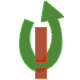
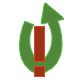
Emergency Roll!

diff --git a/source/public/client/movement.js b/source/public/client/movement.js
@@ -229,7 +229,7 @@ shipManager.movement = {
         return true;
     },
 
-/*
+
     canEmergencyRoll: function canEmergencyRoll(ship) {
         if (gamedata.gamephase != 2) return false;
         if (ship.flight || ship.osat) return false;
@@ -248,14 +248,12 @@ shipManager.movement = {
         }
         return true;
     },
-*/
+
 
     doRoll: function doRoll(ship) {
         if (!shipManager.movement.canRoll(ship)) return false;        
         var lm = ship.movement[ship.movement.length - 1];
         var requiredThrust = Array(ship.rollcost, 0, 0, 0, 0);
- //       var value = 0;
-//       if (shipManager.movement.isPivoting(ship) != "no" && (!ship.gravitic)) value = 'emergencyRoll';//Mark when an emergency roll has been made.
         
         ship.movement[ship.movement.length] = {
             id: -1,
@@ -276,13 +274,13 @@ shipManager.movement = {
             at_initiative: shipManager.getIniativeOrder(ship),
             turn: gamedata.turn,
             forced: false,
-            value: value
+            value: 0
         };
         shipWindowManager.assignThrust(ship);
         ship.rolling = true;
     },
 
-/*
+
     doEmergencyRoll: function doEmergencyRoll(ship) {
         if (!shipManager.movement.canEmergencyRoll(ship)) return false;        
         var lm = ship.movement[ship.movement.length - 1];
@@ -311,7 +309,7 @@ shipManager.movement = {
         shipWindowManager.assignThrust(ship);
         ship.rolling = true;
     },
-*/    
+   
 
     isRolling: function isRolling(ship) {
         var rolling = false;
@@ -908,15 +906,7 @@ shipManager.movement = {
 				contraction += move.value;//Will +1 depending on Contraction.
 	        }
 	    }
-/*		
-		for (var i in ship.systems) {
-			var system = ship.systems[i];
-			if (system.hasOwnProperty('contraction')) {
-			    contraction = system.contraction;
-			    break;
-			}					
-		}	
- */      	
+	    
        	return contraction;
     },
 
@@ -971,7 +961,6 @@ shipManager.movement = {
 		        value: value
 		    };
 						
-
 		    shipWindowManager.assignThrust(ship);		    	        
 		}
 	
@@ -990,41 +979,6 @@ shipManager.movement = {
 			}	
 	},
 
-/*//No longer needed
-	cancelPivotAfterTurn: function cancelPivotAfterTurn(ship){
-        var name;
-        var movement = ship.movement[ship.movement.length - 1];        
-		var isPivoting = shipManager.movement.isPivoting(ship);
-		//Create a pivot order that is the reverse of current pivot to cancel it.
-		if (isPivoting == 'left'){
-			name = "pivotright";
-		}else if (isPivoting == 'right'){
-			name = "pivotleft";
-		} 
-		//Add movement order!		
-		ship.movement[ship.movement.length] = {
-		    id: -1,
-		    type: name,
-		    position: movement.position, 
-		    xOffset: movement.xOffset,
-		    yOffset: movement.yOffset,
-		    facing: movement.facing,
-		    heading: movement.heading,
-		    speed: movement.speed,
-		    animating: false,
-		    animated: false,
-		    animationtics: 0,
-		    requiredThrust: Array(0, 0, 0, 0, 0),
-		    assignedThrust: Array(),
-		    commit: true,
-		    preturn: false,
-		    at_initiative: shipManager.getIniativeOrder(ship),
-		    turn: gamedata.turn,
-		    forced: false,
-		    value: "freecancelpivot"
-		};
-	},
-*/
 	
     canTurnIntoPivot: function canTurnIntoPivot(ship, right) {
         if (gamedata.gamephase != 2) return false;
@@ -1032,7 +986,8 @@ shipManager.movement = {
 
         /*cannot turn into pivot if unit is aligned...*/
         if(!shipManager.movement.isOutOfAlignment(ship)) return false;
-        
+        if (shipManager.movement.isRolling(ship) && !ship.gravitic) return false; //Cannot turn at all if rolling, unless gravitic
+	        
 		var turndelay = shipManager.movement.calculateCurrentTurndelay(ship);
         if (turndelay > 0) return false; //cannot turn into pivot if turn delay is not satisfied!
 		

diff --git a/source/public/client/UI/shipMovement.js b/source/public/client/UI/shipMovement.js
@@ -19,7 +19,7 @@ window.UI = {
 		contractionElement: null,
 		morecontractionElement: null,
 		lesscontractionElement: null,				
-
+		emergencyrollElement: null,
 
 
         initMoveUI: function initMoveUI() {
@@ -47,6 +47,8 @@ window.UI = {
             UI.shipMovement.rotaterightElement = $("#rotateright", ui);
 
             UI.shipMovement.rollElement = $("#roll", ui);
+            UI.shipMovement.emergencyrollElement = $("#emergencyroll", ui);            
+            
             UI.shipMovement.jinkElement = $("#jink", ui);
             UI.shipMovement.jinkvalueElement = UI.shipMovement.jinkElement.find(".jinkvalue");
 			
@@ -79,7 +81,8 @@ window.UI = {
             UI.shipMovement.rotaterightElement.on("click touchstart", UI.shipMovement.rotaterightCallback);
 
             UI.shipMovement.rollElement.on("click touchstart", UI.shipMovement.rollCallback);
-
+            UI.shipMovement.emergencyrollElement.on("click touchstart", UI.shipMovement.emergencyrollCallback);
+            
             UI.shipMovement.accElement.on("click touchstart", UI.shipMovement.accelCallback);
             UI.shipMovement.deaccElement.on("click touchstart", UI.shipMovement.deaccCallback);
 
@@ -157,6 +160,10 @@ window.UI = {
 
         rollCallback: function rollCallback(e) {
             UI.shipMovement.callbackHandler.rollCallback(e);
+        },
+
+        emergencyrollCallback: function emergencyrollCallback(e) {
+            UI.shipMovement.callbackHandler.emergencyrollCallback(e);
         },
 
         pivotrightCallback: function pivotrightCallback(e) {
@@ -372,15 +379,31 @@ window.UI = {
 
             dis = 30;
             angle = mathlib.addToDirection(shipHeading, 180);
+			var checkHeading = shipManager.getShipDoMAngle(ship);
+			            
             var roll = UI.shipMovement.rollElement;
+            var emergencyroll = UI.shipMovement.emergencyrollElement;            
             if (shipManager.movement.canRoll(ship)) {
                 var icon = "img/rotate.png";
                 if (shipManager.movement.isRolling(ship)) icon = "img/rotate_active.png";
 
                 dis += 30;
                 UI.shipMovement.drawUIElement(roll, pos.x, pos.y, s, dis * 1.4, angle, icon, "rollcanvas", shipHeading);
-            } else {
+                emergencyroll.hide()
+            } else if (shipManager.movement.canEmergencyRoll(ship)){
+                var icon = "img/emergencyRoll.png";
+				// Check if the ship is facing left (adjust condition as needed)
+				var rollIconAngle = mathlib.addToDirection(shipHeading, 180);;
+				if (checkHeading >= 90 && checkHeading <= 270) {	
+				    // Swap angles for the morecontraction and lesscontraction buttons
+				    icon = "img/emergencyRollFlipped.png";
+				} 
+                dis += 30;
+                UI.shipMovement.drawUIElement(emergencyroll, pos.x, pos.y, s, dis * 1.4, angle, icon, "emergencyrollcanvas", shipHeading);
+                roll.hide();                            
+			}else {
                 roll.hide();
+                emergencyroll.hide()                
             }
 
             var morejink = UI.shipMovement.morejinkElement;
@@ -439,7 +462,6 @@ window.UI = {
 			var lessContractionAngle = mathlib.addToDirection(shipHeading, 142);
 
 			// Check if the ship is facing left (adjust condition as needed)
-			var checkHeading = shipManager.getShipDoMAngle(ship);
 			if (checkHeading >= 90 && checkHeading <= 270) {	
 			    // Swap angles for the morecontraction and lesscontraction buttons
 			    moreContractionAngle = mathlib.addToDirection(shipHeading, 142);

diff --git a/source/public/client/ShipMovementCallbacks.js b/source/public/client/ShipMovementCallbacks.js
@@ -65,6 +65,13 @@ window.ShipMovementCallbacks = function () {
         this.updateCallback({ ship: this.ship });
     };
 
+    ShipMovementCallbacks.prototype.emergencyrollCallback = function (e) {
+        e.stopPropagation();
+
+        shipManager.movement.doEmergencyRoll(this.ship);
+        this.updateCallback({ ship: this.ship });
+    };
+    
     ShipMovementCallbacks.prototype.pivotrightCallback = function (e) {
         e.stopPropagation();
         this.pivotCallback(e, true);

diff --git a/source/server/model/systems/baseSystems.php b/source/server/model/systems/baseSystems.php
@@ -871,7 +871,7 @@ class MindriderEngine extends Engine{
 						$this->onIndividualNotesLoaded($gameData);		
 
 						$changeValue = $this->changeThisTurn;//Extract change value for shield this turn.													
-//echo "Value of changeValueAFTER: " . $changeValue. "\n";				
+				
 						if($changeValue != 0){												
 							$notekey = 'contract';
 							$noteHuman = 'Contraction value has been changed';
@@ -1342,7 +1342,7 @@ class CnC extends ShipSystem implements SpecialAbility {
 	
 	//C&C  is VERY important, although not as much as the reactor!
 	public $repairPriority = 9;//priority at which system is repaired (by self repair system); higher = sooner, default 4; 0 indicates that system cannot be repaired
-    
+
     
     protected $possibleCriticals = array(
     	//1=>"SensorsDisrupted", //not implemented! so I take it out 
@@ -1378,6 +1378,26 @@ class CnC extends ShipSystem implements SpecialAbility {
 	public function criticalPhaseEffects($ship, $gamedata) {
 			
 		parent::criticalPhaseEffects($ship, $gamedata);//Call parent to apply effects like Limpet Bore.			
+
+		foreach($ship->movement as $shipMove){ //Look through Movement Orders to see if an Emergency Roll occurred this turn.			
+			if($shipMove->turn == $gamedata->turn){	//This turn.					
+				if($shipMove->value == "emergencyRoll"){ //Has Emergency rolled!								
+							$testCrit = array(); 
+							$testCrit = $this->testCritical($ship, $gamedata, $testCrit);//Damage caused, need to force critical test outside normal routine
+						$effectIni = 6;
+						if(!$this->isDestroyed()){//Check if destroyed, but really shouldn't be rolling if it is!										
+							for($i=1; $i<=$effectIni;$i++){
+								$crit = new tmpinidown(-1, $ship->id, $this->id, 'tmpinidown', $gamedata->turn); 
+								$crit->updated = true;
+								$this->criticals[] =  $crit;
+							}		        		
+						} 
+				break; //No need to look further!						   
+				}									
+
+			}
+		}
+				
 		
 		$hasCommsFlux = $ship->hasSpecialAbility("CommsFlux");
 

diff --git a/source/public/game.php b/source/public/game.php
@@ -632,7 +632,10 @@
         <div id="roll">
             <canvas id="rollcanvas" width="40" height="40"></canvas>
         </div>
-		
+
+        <div id="emergencyroll">
+            <canvas id="emergencyrollcanvas" width="40" height="40"></canvas>
+        </div>		
 		
         <div id="halfphase">
             <canvas id="halfphasecanvas" width="50" height="50"></canvas>
